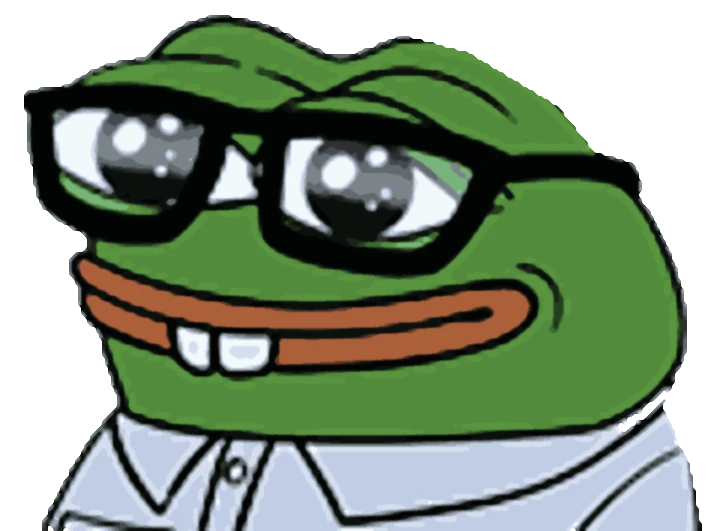
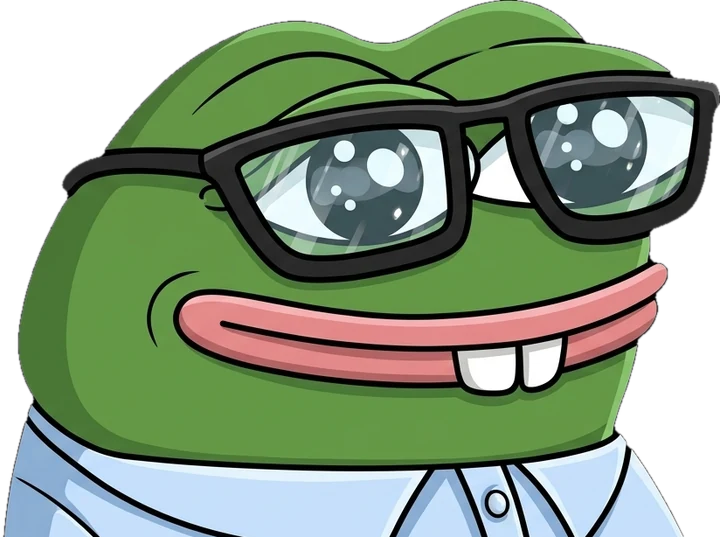
Use the full-size Lil D and point his arrow at him
Lil D is now the supplied full-size artwork, its black ground keyed out.
The arrow starts under the middle of his name and points at the middle
of him.

Claude-Session: https://claude.ai/code/session_01JsadCXExbidFhnhA8ckhTX

diff --git a/SexMonstersSuperheroes/index.html b/SexMonstersSuperheroes/index.html
@@ -16,7 +16,7 @@
   <link rel="stylesheet" href="/ds/site.css?v=2">
   <script src="/ds/bundle.js?v=2"></script>
   <link rel="stylesheet" href="/ds/pages.css?v=2">
-  <link rel="stylesheet" href="/ds/graphic.css?v=2">
+  <link rel="stylesheet" href="/ds/graphic.css?v=3">
   <link rel="canonical" href="https://academy.netadao.org/SexMonstersSuperheroes/">
   <script src="https://cdn.jsdelivr.net/npm/@emailjs/browser@4/dist/email.min.js"></script>
   <script>(function () { if (window.emailjs) emailjs.init({ publicKey: "qWT4IiYYkiSwREKOd" }); })();</script>
@@ -78,10 +78,10 @@
   <section class="nda-row pg-g-formatrow" aria-labelledby="g-format">
     <div class="pg-lild-stage" data-lild>
       <div class="pg-lild" aria-hidden="true" title="Replay">
-        <div class="pg-lild__clip"><img class="pg-lild__frog" src="/ds/media/lil-d.webp" alt="" width="720" height="531" loading="lazy"></div>
+        <div class="pg-lild__clip"><img class="pg-lild__frog" src="/ds/media/lil-d.webp" alt="" width="720" height="537" loading="lazy"></div>
         <svg class="pg-lild__note" viewBox="0 0 280 112" fill="none">
-          <path class="pg-ink pg-ink--arrow" pathLength="1" style="--d:2.78s;--t:0.56s" d="M158 46 C174 84 216 94 256 66"/>
-          <path class="pg-ink pg-ink--arrow" pathLength="1" style="--d:3.32s;--t:0.18s" d="M242 66.5 L256 66 L249.4 78.4"/>
+          <path class="pg-ink pg-ink--arrow" pathLength="1" style="--d:2.78s;--t:0.56s" d="M80 86 C86 112 190 89 256 88"/>
+          <path class="pg-ink pg-ink--arrow" pathLength="1" style="--d:3.32s;--t:0.18s" d="M244.4 82.1 L256 88 L244.6 94.3"/>
           <g transform="translate(10 14) scale(1.3) skewX(-9)">
             <path class="pg-ink pg-ink--name" pathLength="1" style="--d:3.55s;--t:0.38s" d="M12 4 C11.4 17 10.6 31 10.2 45 C18 45.4 26 45.2 34 43.6"/>
             <path class="pg-ink pg-ink--name" pathLength="1" style="--d:3.97s;--t:0.13s" d="M41 24 C40.8 31 40.4 38 40.6 45"/>

diff --git a/ds/graphic.css b/ds/graphic.css
@@ -40,7 +40,7 @@
 .pg-g-format .pg-body + .pg-body { margin-top: 1em; }
 /* Lil D peeks over the top edge of the format panel: his box sits on the panel and clips him at its edge */
 .pg-lild-stage { --lild-w: 300px; position: relative; margin-top: calc(var(--lild-w) * .78); }
-.pg-lild { position: absolute; right: 7%; bottom: 100%; width: var(--lild-w); aspect-ratio: 720 / 531; cursor: pointer; }
+.pg-lild { position: absolute; right: 7%; bottom: 100%; width: var(--lild-w); aspect-ratio: 720 / 537; cursor: pointer; }
 .pg-lild__clip { position: absolute; inset: 0; overflow: hidden; }
 .pg-lild__frog { display: block; width: 100%; height: auto; }
 .pg-lild__note { position: absolute; right: 92%; bottom: 47%; width: 100%; overflow: visible; }
